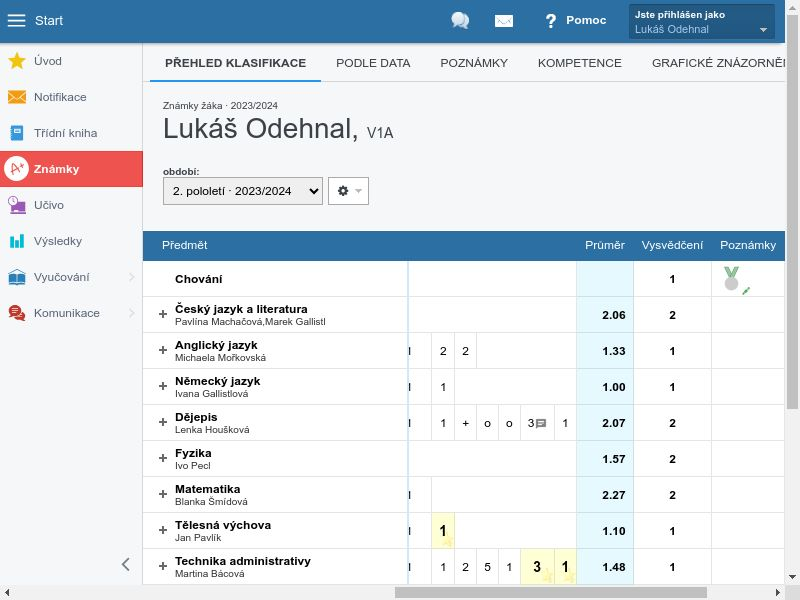
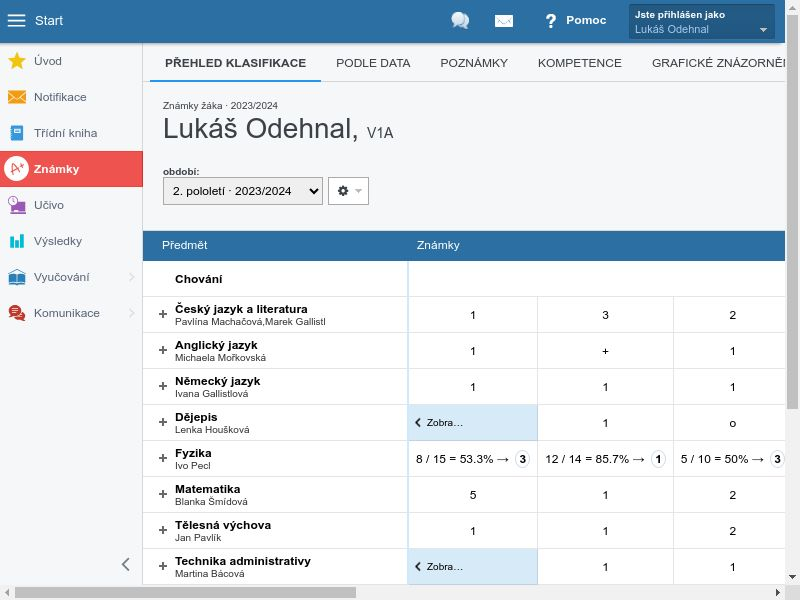
get all numbers and check for more comlex ways of writing the grade ('2-' etc.)

diff --git a/src/main.rs b/src/main.rs
@@ -1,9 +1,10 @@
 use dotenvy::dotenv;
 use std::error::Error;
-mod prev;
+// mod prev;
 use headless_chrome::protocol::cdp::Page;
 use headless_chrome::Browser;
 use std::env;
+use std::time::Duration;
 
 pub fn main() -> Result<(), Box<dyn Error>> {
     let browser = Browser::default()?;
@@ -13,6 +14,7 @@ pub fn main() -> Result<(), Box<dyn Error>> {
     let username = env::var("USERNAME").expect("USERNAME environment variable not set");
     let password = env::var("PASSWORD").expect("PASSWORD environment variable not set");
 
+    println!("signing in");
     tab.navigate_to("https://sspbrno.edupage.org/login/edubarLogin.php")?;
     tab.wait_for_element("input#home_Login_2e1")?.click()?;
     tab.type_str(&username)?;
@@ -21,34 +23,60 @@ pub fn main() -> Result<(), Box<dyn Error>> {
     let jpeg_data =
         tab.capture_screenshot(Page::CaptureScreenshotFormatOption::Jpeg, None, None, true)?;
     std::fs::write("screenshot2.jpeg", jpeg_data)?;
-    tab.navigate_to("https://sspbrno.edupage.org/znamky")?;
-    let elem = tab
-        .wait_for_element("span.tips")?
-        .capture_screenshot(Page::CaptureScreenshotFormatOption::Png)?;
-    // std::fs::write("elem.jpeg", elem)?;
+
+    println!("znamky page");
+    tab.navigate_to("https://sspbrno.edupage.org/znamky")?
+        .wait_for_element("#edubarStartButton")?;
+    // tab.wait_for_element(".fixedCell")?; //delete if this works
+    println!("start");
+    let inner_text_content = tab
+        .wait_for_element_with_custom_timeout(".znZnamka", Duration::from_secs(15))?
+        .get_inner_text()?;
+    println!("{}", inner_text_content);
+    println!("end");
+    // let test_button = tab
+    //     .find_elements("znznamka")?
+    //     .capture_screenshot(page::capturescreenshotformatoption::png)?;
+    // std::fs::write("button.jpeg", test_button)?;
+    let mut znamky_all: Vec<usize> = Vec::new();
+    let containing_element = tab.find_elements(".znZnamka")?;
+    for i in &containing_element {
+        println!("{:?}", i);
+        let new_znamka = i.get_inner_text();
+        // println!("new znamka: {:?}", new_znamka);
+        // let znamka_int: usize = new_znamka?.parse()?;
+
+        match new_znamka {
+            Ok(new_znamka) => {
+                println!("new znamka: {:?}", new_znamka);
+                match new_znamka.parse::<usize>() {
+                    Ok(znamka_int) => {
+                        println!("Parsed number: {:?}", znamka_int);
+                        znamky_all.push(znamka_int);
+                        // You can use `znamka_int` here.
+                    }
+                    Err(_) => {
+                        println!("Failed to parse '{}' as a number", new_znamka);
+                        // Handle the case where the string is not a valid number.
+                    }
+                }
+            }
+            Err(e) => {
+                println!("Failed to get inner text: {:?}", e);
+                // Handle the error case where `get_inner_text` failed.
+            }
+        }
+        // znamky_all.push(znamka_int);
+    }
+    // let inner_divs = containing_element.find_elements(".znznamka")?;
+    println!("{:?}", znamky_all);
+
+    // let curr_prumer = tab.wait_for_element(".expandImg")?.get_inner_text()?;
+    // println!("{}", curr_prumer);
 
     let jpeg_data =
         tab.capture_screenshot(Page::CaptureScreenshotFormatOption::Jpeg, None, None, true)?;
     std::fs::write("screenshot3.jpeg", jpeg_data)?;
-
-    // let remote_object = elem.call_js_fn(
-    //     r#"
-    //     function getIdTwice () {
-    //         // `this` is always the element that you called `call_js_fn` on
-    //         const id = this.id;
-    //         return id + id;
-    //     }
-    // "#,
-    //     vec![],
-    //     false,
-    // )?;
-    // match remote_object.value {
-    //     Some(returned_string) => {
-    //         dbg!(&returned_string);
-    //         assert_eq!(returned_string, "firstHeadingfirstHeading".to_string());
-    //     }
-    //     _ => unreachable!(),
-    // };
 
     Ok(())
 }

diff --git a/README.md b/README.md
@@ -14,7 +14,7 @@ PASSWORD=your_password
 
 2. Run it with:
 
-```rust
+```
 cargo run
 ```
 
